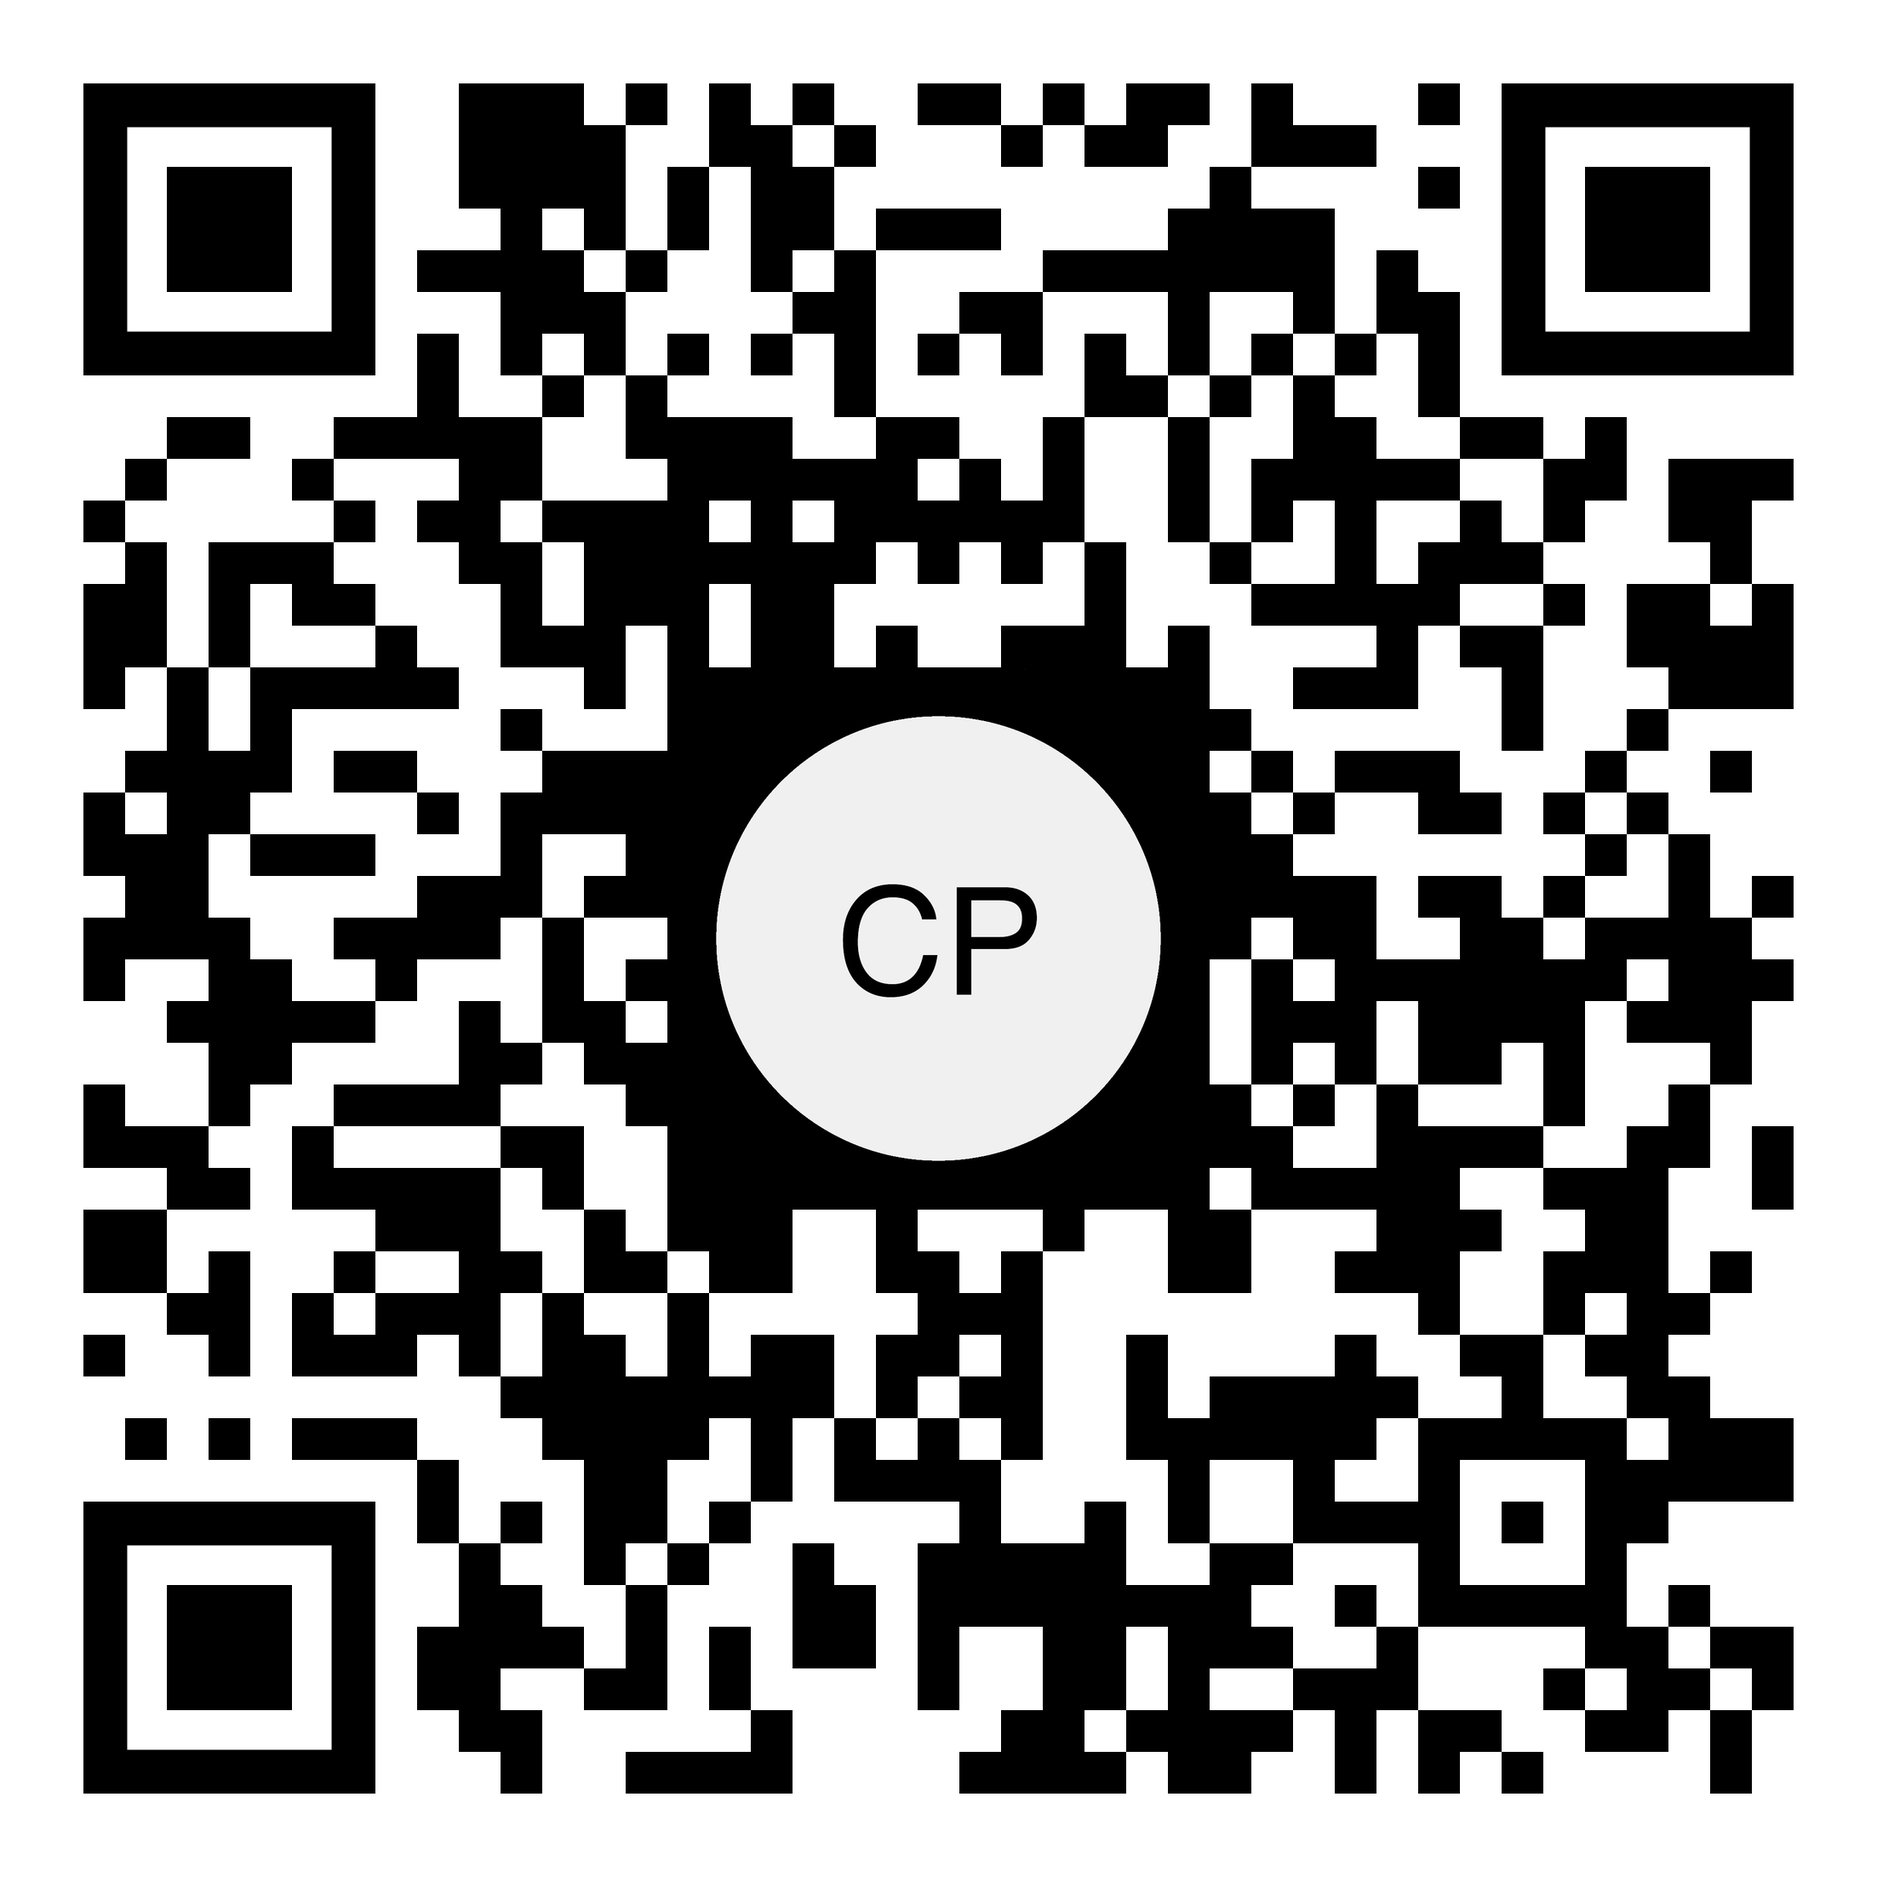
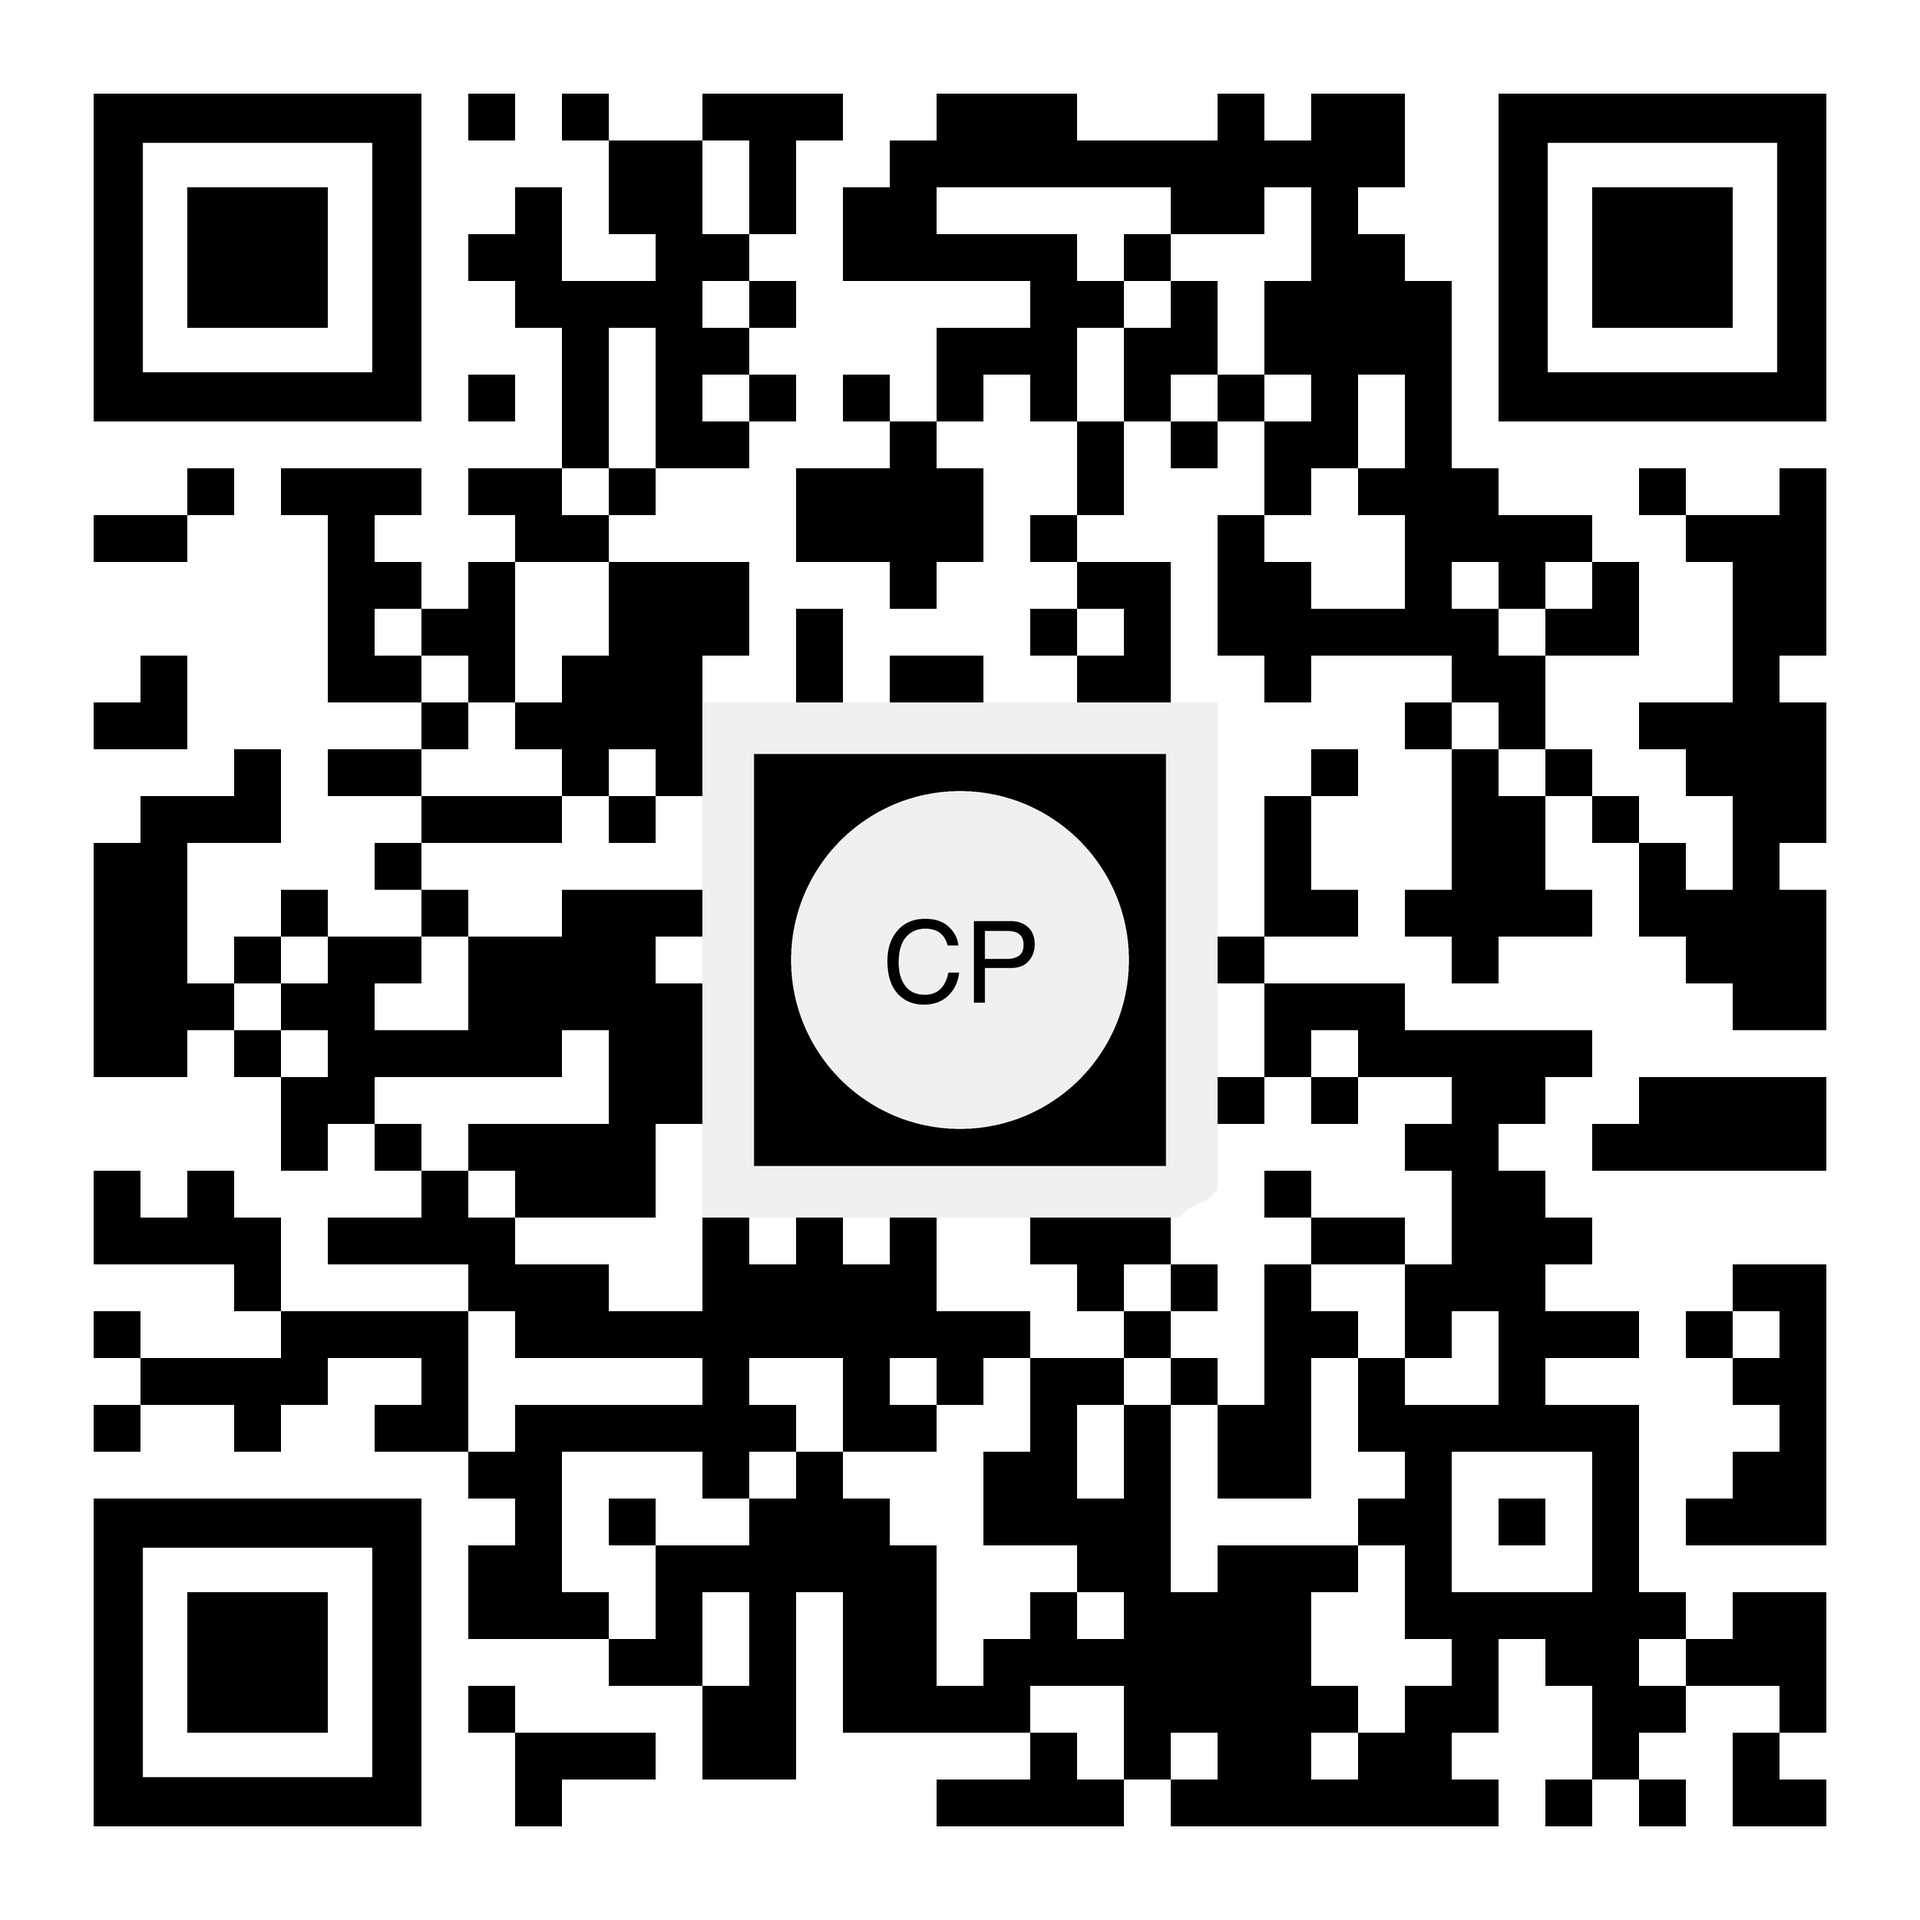
change qr

diff --git a/master/index.html b/master/index.html
@@ -1,0 +1,21 @@
+<!doctype HTML>
+<html>
+    <head>
+        <meta name="viewport" content="width=device-width, user-scalable=no, minimum-scale=1.0, maximum-scale=1.0">
+    </head>
+    <script src="https://aframe.io/releases/0.9.0/aframe.min.js"></script>
+    <script src="https://rawgit.com/jeromeetienne/AR.js/master/aframe/build/aframe-ar.min.js"></script>
+    <script src="https://rawgit.com/donmccurdy/aframe-extras/master/dist/aframe-extras.loaders.min.js"></script>
+    
+    <body style='margin : 0px; overflow: hidden;'>
+      <a-scene embedded arjs='sourceType: webcam;'>
+
+        <a-marker-camera type='pattern' url='https://raw.githubusercontent.com/benhov/benhov.github.io/master/cp_shg_ar/wu/assets/qr-code.png'>
+                  
+        <a-box position='0 0.5 0' material='color: green;'></a-box>
+        </a-marker-camera>
+
+       <a-entity camera></a-entity>
+      </a-scene>
+    </body>
+</html>
